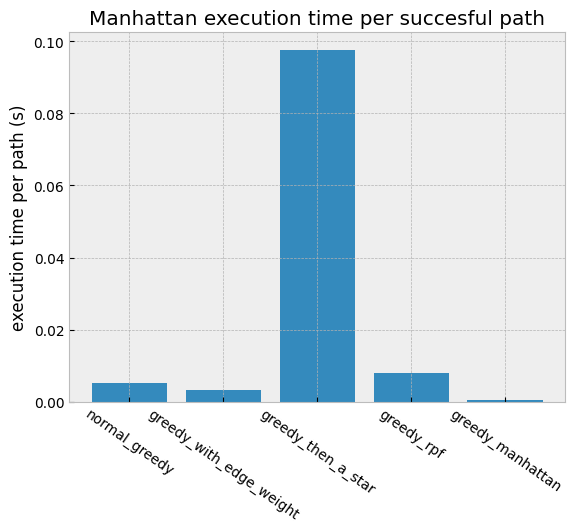
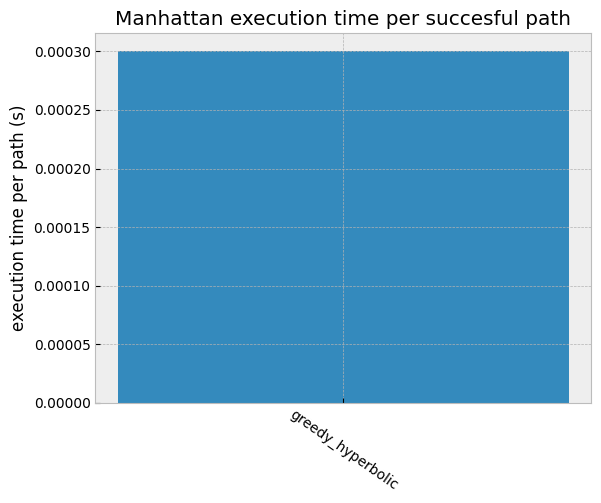
new transformation but also does not work for hyperbolic routing

diff --git a/hyperbolic_embedder.py b/hyperbolic_embedder.py
@@ -22,45 +22,51 @@ def find_max_degree(min_tree): # returns node and the degree of this node
 
 def transformation(z_node, z_parent):
 	
-	z_return = (z_parent - z_node) / (1 - z_node.conjugate() * z_parent)
+	#z_return = (z_parent - z_node) / (1 - z_node.conjugate() * z_parent)
+	z_return = (z_parent.conjugate() / z_node.conjugate() - 1) / (z_parent.conjugate()-1 / z_node)
 	return z_return
 
 def inverse_transformation(z_node, z_child):
-
-	z_return = (z_child + z_node) / ( 1 + z_child * z_node.conjugate())
+	#print((z_child + z_node) / ( 1 + z_child * z_node.conjugate()))
+	#z_return = (z_child + z_node) / ( 1 + z_child * z_node.conjugate())
+	z_return = ( 1-z_child.conjugate()/z_node.conjugate() ) / (1/ z_node- z_child.conjugate())
 	return z_return
 
-"""
-Example how to use transformations: 
+#Example how to use transformations: 
 a = complex(0.5, 0.6)
 b = complex(0.1, 0.1)
 
 b = transformation(a, b)
 print(transformation(a,a)) # will map a to zero
 
-a = inverse_transformation(0,a) # will map a again to it's original value
+#a = inverse_transformation(0,a) # will map a again to it's original value
 print(inverse_transformation(a,b)) # with this old a or new new a it will map b again to it's original value so inverse_function(function(z)) = z
-""" 
+
 pi = np.pi
 
 def sarkar_formula(node_id, parent_id_of_node, node_dict, came_from, min_tree, tau_func, start=False): # from arxiv: 1804.03329, # coordinates is numpy array of two coordinates
 	
 	nodes_added = set()
-	degree_dos =  len(list(min_tree.neighbors(node_id)))
+	degree =  len(list(min_tree.neighbors(node_id)))
 	if start is True:
 		theta = 0
 		k = 1 # starts with one since technically the parent node of the current selected node for expansion is node zero
 		came_from[node_id] = parent_id_of_node # this should be parent==child if not something is wrong
 		
 		for child in min_tree.neighbors(node_id):
-			new_val  = complex(tau_func * np.cos(theta + 2 * pi * k/ degree_dos), tau_func * np.sin(theta + 2 * pi * k/ degree_dos))
-			node_dict[child] = new_val
+			new_val  = tau_func * complex(np.cos(theta + 2 * pi * k/ degree),  np.sin(theta + 2 * pi * k/ degree))
+			val = cmath.exp(1j*(theta + 2 * pi * k / degree)) * tau_func
+			print(val)
+			#print(new_val)
+			assert 2 * pi * k/ degree < 2 * pi + 0.001 # here willl be full circle
+			assert abs(val - new_val) < 0.0001
+			node_dict[child] = val
 			# print(abs(2*np.arctanh(abs((new_val)/(1))))) # check to look if right distance embedded
 			came_from[child] = node_id # the child of the node is now embeded and we want to remember te structure since we'll need it later to embed the children of the newly embedded node
 			nodes_added.add(child)
 			
 			k += 1
-		print(degree_dos)
+		print(degree)
 		print('check hierboven of dit klopt')
 		
 		return node_dict, came_from, nodes_added
@@ -75,8 +81,12 @@ def sarkar_formula(node_id, parent_id_of_node, node_dict, came_from, min_tree, t
 	for child in min_tree.neighbors(node_id):
 		
 		if child not in node_dict: # could be already embedded if parent 
+			#new_val = tau_func * complex(np.cos(theta + 2 * pi * k/ degree), np.sin(theta + 2 * pi * k/ degree))
 			
-			z_child = complex(tau_func * np.cos(theta + 2 * pi * k/ degree_dos), tau_func * np.sin(theta + 2 * pi * k/ degree_dos))
+			val = cmath.exp(1j*(theta + 2 * pi * k / degree)) * tau_func
+			#assert abs(val - new_val) < 0.0001
+			assert 2 * pi * k/ degree < 2 * pi -0.001 # not allowed to be full circle  since origin is at 0 or two pi
+			z_child = val
 			
 			inv_transform_child = inverse_transformation(z_node, z_child)
 			assert abs(inv_transform_child) < 1 # needs to be in poincare disk
@@ -87,7 +97,7 @@ def sarkar_formula(node_id, parent_id_of_node, node_dict, came_from, min_tree, t
 			nodes_added.add(child)		
 			k += 1
 			
-	print(degree_dos)
+	print(degree)
 	print('kijk hierboven')
 	
 	return node_dict, came_from, nodes_added

diff --git a/generate_data_greedy.py b/generate_data_greedy.py
@@ -189,10 +189,13 @@ def data_generator(name, functions, foldername, number_of_routes_pre_compute=80,
   
 name_list = ['New Dehli','Nairobi', 'Manhattan', 'Rio de Janeiro', 'Brugge']
 
-functions = [gf.greedy_forwarding ,gfwe.greedy_forwarding_with_edge_weight, gtas.greedy_forwarding_then_a_star,  grpf.greedy_forwarding_rpf, gm.manhattan_greedy_forwarding]
+#functions = [gf.greedy_forwarding ,gfwe.greedy_forwarding_with_edge_weight, gtas.greedy_forwarding_then_a_star,  grpf.greedy_forwarding_rpf, gm.manhattan_greedy_forwarding]
 
-foldernames = ['normal_greedy','greedy_with_edge_weight','greedy_then_a_star', 'greedy_rpf', 'greedy_manhattan']
+#foldernames = ['normal_greedy','greedy_with_edge_weight','greedy_then_a_star', 'greedy_rpf', 'greedy_manhattan']
 
+functions = [hr.hyperbolic_greedy_forwarding]
+
+foldernames = ['greedy_hyperbolic']
 
 for name in name_list:
   data_generator(name, functions, foldernames,number_of_routes_pre_compute=80, step_size=150, amount_of_samples_per_bin=100)
